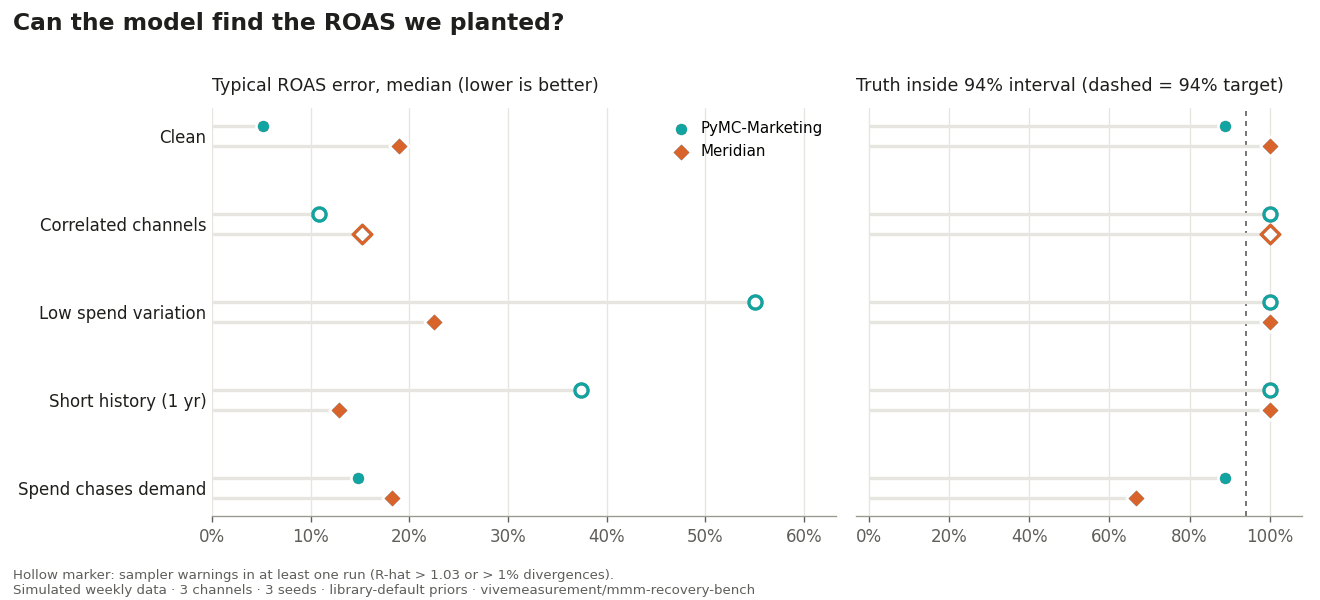
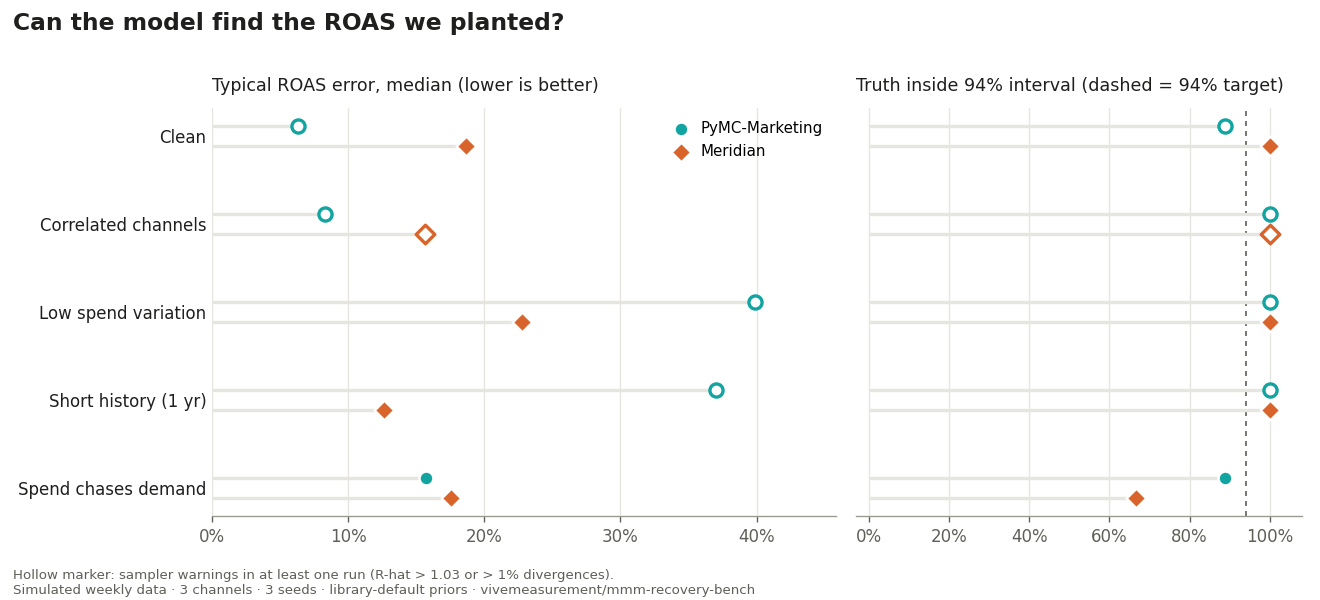
Update benchmark results

diff --git a/README.md b/README.md
@@ -25,16 +25,16 @@ We simulate weekly sales where the true return on every channel is known, fit Py
 <!-- results:start -->
 | Scenario | Tool | Median ROAS error | Truth inside 94% interval | Interval width | Runs with sampler warnings |
 |---|---|---:|---:|---:|---:|
-| Clean | Meridian | 19% | 100% | ±63% | 0 of 3 |
-| Clean | PyMC-Marketing | 5% | 89% | ±30% | 0 of 3 |
-| Correlated channels | Meridian | 15% | 100% | ±73% | 1 of 3 |
-| Correlated channels | PyMC-Marketing | 11% | 100% | ±110% | 1 of 3 |
-| Low spend variation | Meridian | 22% | 100% | ±62% | 0 of 3 |
-| Low spend variation | PyMC-Marketing | 55% | 100% | ±268% | 3 of 3 |
-| Short history (1 yr) | Meridian | 13% | 100% | ±71% | 0 of 3 |
-| Short history (1 yr) | PyMC-Marketing | 37% | 100% | ±54% | 1 of 3 |
+| Clean | Meridian | 19% | 100% | ±66% | 0 of 3 |
+| Clean | PyMC-Marketing | 6% | 89% | ±31% | 1 of 3 |
+| Correlated channels | Meridian | 16% | 100% | ±72% | 1 of 3 |
+| Correlated channels | PyMC-Marketing | 8% | 100% | ±115% | 1 of 3 |
+| Low spend variation | Meridian | 23% | 100% | ±63% | 0 of 3 |
+| Low spend variation | PyMC-Marketing | 40% | 100% | ±253% | 3 of 3 |
+| Short history (1 yr) | Meridian | 13% | 100% | ±70% | 0 of 3 |
+| Short history (1 yr) | PyMC-Marketing | 37% | 100% | ±57% | 2 of 3 |
 | Spend chases demand | Meridian | 18% | 67% | ±20% | 0 of 3 |
-| Spend chases demand | PyMC-Marketing | 15% | 89% | ±30% | 0 of 3 |
+| Spend chases demand | PyMC-Marketing | 16% | 89% | ±33% | 0 of 3 |
 <!-- results:end -->
 
 **How to read it.** *Median ROAS error* is the typical absolute gap between estimated and true ROAS, across three channels and three seeds. *Truth inside 94% interval* is how often the true ROAS fell inside the model's own uncertainty interval: a well-calibrated model should be close to 94%. *Interval width* is the half-width of that interval relative to the true ROAS. A model that is wrong **and** confident (high error, low coverage, narrow interval) is the dangerous case.

diff --git a/results/summary.md b/results/summary.md
@@ -1,12 +1,12 @@
 | Scenario | Tool | Median ROAS error | Truth inside 94% interval | Interval width | Runs with sampler warnings |
 |---|---|---:|---:|---:|---:|
-| Clean | Meridian | 19% | 100% | ±63% | 0 of 3 |
-| Clean | PyMC-Marketing | 5% | 89% | ±30% | 0 of 3 |
-| Correlated channels | Meridian | 15% | 100% | ±73% | 1 of 3 |
-| Correlated channels | PyMC-Marketing | 11% | 100% | ±110% | 1 of 3 |
-| Low spend variation | Meridian | 22% | 100% | ±62% | 0 of 3 |
-| Low spend variation | PyMC-Marketing | 55% | 100% | ±268% | 3 of 3 |
-| Short history (1 yr) | Meridian | 13% | 100% | ±71% | 0 of 3 |
-| Short history (1 yr) | PyMC-Marketing | 37% | 100% | ±54% | 1 of 3 |
+| Clean | Meridian | 19% | 100% | ±66% | 0 of 3 |
+| Clean | PyMC-Marketing | 6% | 89% | ±31% | 1 of 3 |
+| Correlated channels | Meridian | 16% | 100% | ±72% | 1 of 3 |
+| Correlated channels | PyMC-Marketing | 8% | 100% | ±115% | 1 of 3 |
+| Low spend variation | Meridian | 23% | 100% | ±63% | 0 of 3 |
+| Low spend variation | PyMC-Marketing | 40% | 100% | ±253% | 3 of 3 |
+| Short history (1 yr) | Meridian | 13% | 100% | ±70% | 0 of 3 |
+| Short history (1 yr) | PyMC-Marketing | 37% | 100% | ±57% | 2 of 3 |
 | Spend chases demand | Meridian | 18% | 67% | ±20% | 0 of 3 |
-| Spend chases demand | PyMC-Marketing | 15% | 89% | ±30% | 0 of 3 |
+| Spend chases demand | PyMC-Marketing | 16% | 89% | ±33% | 0 of 3 |
